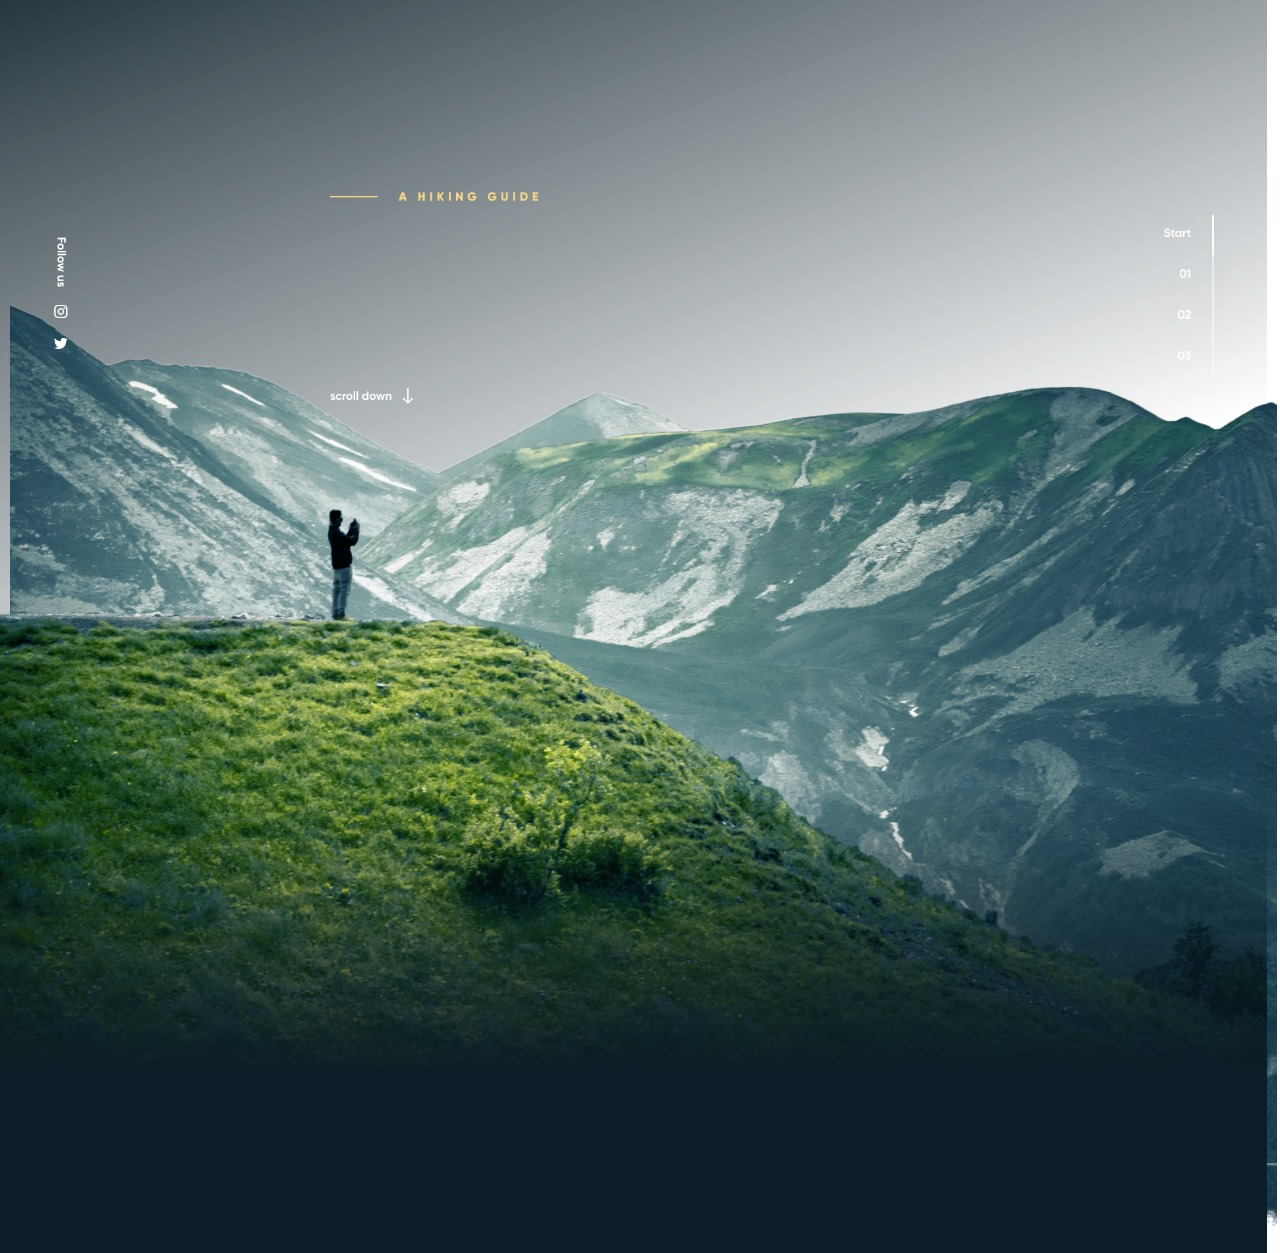
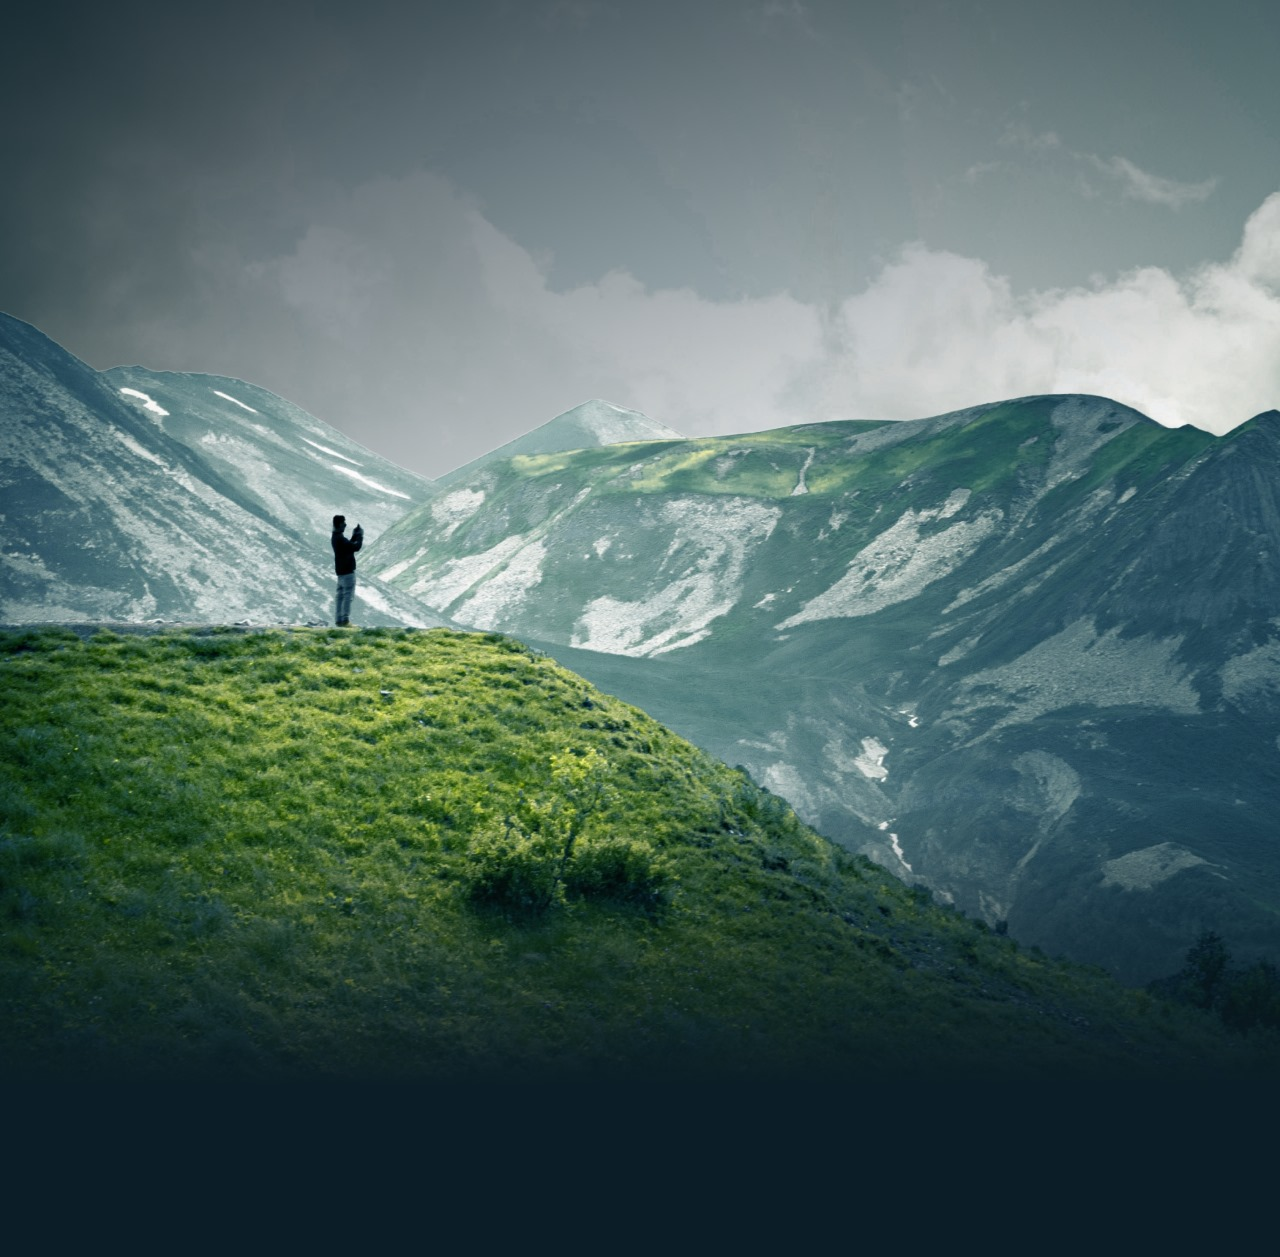
I have created second section of MNTN PROJECT

diff --git a/src/Components/Section_two/Section_two.jsx b/src/Components/Section_two/Section_two.jsx
@@ -1,0 +1,25 @@
+import React from 'react';
+import Section_twoImg from "../Assets/02.png";
+import { Icon } from '@iconify/react';
+
+export const Section_two = () => {
+  return (
+    <>
+    <div className='bg-black pt-5'>
+    <div className='d-flex justify-content-center gap-5 align-items-center pt-5'>
+      <div className='hiker-image pt-5'>
+          <img className='pt-5 img-fluid w-75 h-50' src={Section_twoImg} alt="" />
+        </div>
+        <div className='text-white me-5 pt-5'>
+          <span className='text-warning'><Icon className=' text-warning' icon="vaadin:line-h" /> GEt Started</span>
+          <h3 className='display-4 fw-normal'>What level of  hiker <br /> are you?</h3>
+          <p>Determining what level of hiker you are can be an important tool when <br /> planning future hikes. This hiking level guide will help you plan hikes <br /> according to different hike ratings set by various websites like All Trails and <br /> Modern Hiker. What type of hiker are you – novice, moderate, advanced <br /> moderate, expert, or expert backpacker? </p>
+          <span className='text-warning'>Raed more <Icon className='ms-1 text-warning' icon="icon-park-outline:arrow-right" /></span>
+        </div>
+      </div>
+    </div>
+    </>
+  )
+}
+
+export default Section_two;

diff --git a/src/Components/Header/Header.jsx b/src/Components/Header/Header.jsx
@@ -20,8 +20,8 @@ const Header = () => {
               <span className='text-white'>Account</span>
             </div>
           </div>
-          <div className='paragraph-text'>
-          <p className='text-white text-start display-3 fw-medium'>Be prepared for The  <br /> Mountains And Beyond!</p>
+          <div className='paragraph-text d-flex justify-content-center mt-5'>
+          <p className='text-white  text-start display-3 fw-medium'>Be prepared for The  <br /> Mountains And Beyond!</p>
           </div>
         </div>
     </>

diff --git a/src/App.js b/src/App.js
@@ -4,6 +4,7 @@ import "bootstrap/dist/css/bootstrap.min.css";
 import "bootstrap/dist/js/bootstrap.bundle.min";
 import Header from './Components/Header/Header';
 import Hiker from './Components/Hiker_section/Hiker';
+import Section_two from './Components/Section_two/Section_two';
 
 
 function App() {
@@ -11,6 +12,7 @@ function App() {
     <div >
       <Header/>
       <Hiker/>
+      <Section_two/>
     </div>
   );
 }

diff --git a/src/App.css b/src/App.css
@@ -1,5 +1,4 @@
 .hero-image{
-  /* position: relative; */
   background-image: url(./Components/Assets/background-img.jpg);
   background-repeat: no-repeat;
   background-size: cover;
@@ -7,9 +6,7 @@
 }
 
 .paragraph-text{
-  position: absolute;
-  top: 310px;
-  left: 500px;
+ padding-top: 100px;
 }
 
 .hiker-image{
